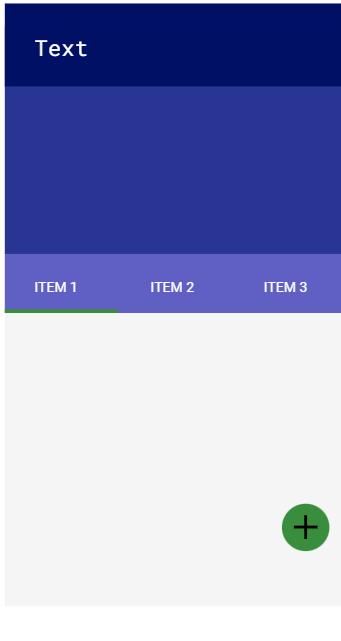
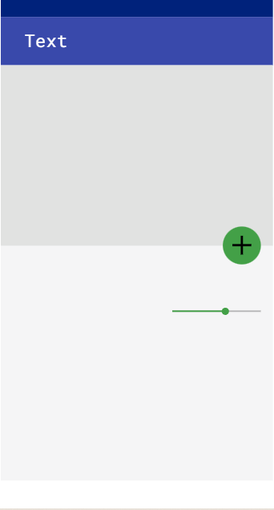
target audience and updated color scheme

diff --git a/lesson3/target-audience.html b/lesson3/target-audience.html
@@ -6,6 +6,9 @@
     <meta name="viewport" content="width=device-width, initial-scale=1.0">
     <link rel="stylesheet" href="css/main.css">
     <link href="css/normalize.css" rel="stylesheet" >
+    <link rel="preconnect" href="https://fonts.googleapis.com">
+    <link rel="preconnect" href="https://fonts.gstatic.com" crossorigin>
+    <link href="https://fonts.googleapis.com/css2?family=Poppins&family=Roboto+Condensed&display=swap" rel="stylesheet">
     <title>Chamber of Commerce Planning Document- Target Audience</title>
 </head>
 <body>
@@ -23,9 +26,14 @@
         <main>
             <h1>Target Audience</h1>
             <h2>Personas</h2>
-            <p>busniess owners and city planners (update infrastructure)</p>
+            <p>Local Business Owners: Man named Bob who has a cake busniess in the area called "Fat Cakes." He is in his mid thirties running his dream business. He is married with one kid. He has a degree in business and loves baking on the side. Bob is fimilar with technology and can nagivate the web quite well.</p>
+            <p>City Planners: Woman named Jen who works for the city. She is in her mid forties making the main income for her faamily. She is also married with three kids. She has an undergrad in urban planning and a Master's of City Planning. Jen works with technology often and can navigate the web quite well.</p>
             <h2>Scenarios</h2>
-            <p>content</p>
+            <p>Scenario 1: How can I join the Chamber? The site will contain a join tab where the viewer can eaily find the steps and process to join. </p>
+            <p>Scenario 2: What are the local busniess in this area? The site will have a directory page where anyone can find a list of the local businesses in the area.</p>
+            <p>Scenario 3: What type of infrastructure should I be building in this area? The site will have a directory where you can see the businesses in the area and what they do. From here you can see if they are resturants, stores, or any other type of business that requires a type of building.</p>
+            <p>Scenario 4: What events are going on in my town? The site will have a discover page where people can see all of the upcoming events in the town.</p>
+            <p>Scenario 5: How can I contact someone to complain about a local buiness? </p>
         </main>
         <footer>
             <div>&copy;<span></span>| Caroline Comin | Rexburg, ID, USA</div>

diff --git a/lesson3/css/main.css b/lesson3/css/main.css
@@ -1,13 +1,15 @@
 header {
-    background-color:#283593;
+    background-color:#3949ab;
     color: white;
     text-align: center;
     display: flex;
     justify-content: space-around; 
+    font-family: 'Roboto Condensed', sans-serif;
 }
 
 header h1{
     padding-left: 2%;
+    padding: 10%;
 }
 
 header img {
@@ -16,38 +18,105 @@ header img {
 }
 
 footer{
-    background-color: #283593;
+    background-color: #3949ab;
     color: white;
     text-align: center;
+    font-family: 'Roboto Condensed', sans-serif;
+    font-size: 16pt;
 }
 
 nav {
-    background-color:#5f5fc4; 
+    background-color: #388e3c;
+    border-top: 2px white solid;
+    color: white;
 }
 
 nav a {
     display: block;
     text-align: center;
     text-decoration: none;
-    color: white;
     font-size: 18pt;
     padding: 2%;
+    color: black;
+    font-family: 'Poppins', sans-serif;
 }
 
 nav a:hover {
-    background-color: #001064;
+    background-color: #00701a;
     color: white;
 }
 
 .highlight {
-    background-color: #001064;
+    background-color: #00701a;
     color: white;
+}
+
+h1 {
+    font-size: 25pt;
+}
+
+h2 {
+    font-size: 18pt;
+}
+
+main{
+    padding: 1rem;
+}
+
+main table{
+    width: 100%;
+    border: 2px ;
+}
+
+main table th{
+    border: 2px #00600f solid;
+    margin: 0px;
+    padding: 0px;    
+    background-color: #388e3c;
+}
+
+main table td{
+    border: 2px black solid;
+}
+
+#site-header-sample{
+    background-color: #3949ab;
+    font-family: 'Roboto Condensed', sans-serif;
+    font-size: 25pt;
+    color: white;
+}        
+
+#h1-sample{
+    font-family: 'Roboto Condensed', sans-serif;
+    font-size: 25pt;
+    color: #3949ab;
+}
+
+#primary-nav-sample {
+    background-color: #388e3c;
+    font-family: 'Poppins', sans-serif;
+}
+
+#footer-sample {
+    background-color: #3949ab;
+    color: white;
+    font-family: 'Roboto Condensed', sans-serif;
+}
+
+#h2-sample {
+    font-family: 'Poppins', sans-serif;
 }
 
 @media screen  and (min-width: 600px) {
     header {
         font-size: 25pt;
     }
+
+    header h1{
+        padding-left: 2%;
+        padding: 0%;
+    }
+
     nav {
         display: grid;
         grid-template-columns: 1fr 1fr 1fr 1fr;

diff --git a/lesson3/typography.html b/lesson3/typography.html
@@ -6,6 +6,9 @@
     <meta name="viewport" content="width=device-width, initial-scale=1.0">
     <link rel="stylesheet" href="css/main.css">
     <link href="css/normalize.css" rel="stylesheet" >
+    <link rel="preconnect" href="https://fonts.googleapis.com">
+    <link rel="preconnect" href="https://fonts.gstatic.com" crossorigin>
+    <link href="https://fonts.googleapis.com/css2?family=Poppins&family=Roboto+Condensed&display=swap" rel="stylesheet">
     <title>Chamber of Commerce Planning Document- Typography</title>
 </head>
 <body>
@@ -22,7 +25,14 @@
         </nav>
         <main>
             <h1>Fonts</h1>
-            <p>table</p>
+            <table>
+                <tr><th>Object</th><th>Font Definition</th><th>Size</th><th>Font Color</th><th>Sample</th></tr>
+                <tr><td>Site Header</td><td>Roboto Condensed</td><td>25pt</td><td>White</td><td id="site-header-sample">Sample</td></tr>
+                <tr><td>Primary Navigation</td><td>Poppins</td><td>18pt</td><td>Black</td><td id="primary-nav-sample">Sample</td></tr>
+                <tr><td>Footer Content</td><td>Roboto Condensed</td><td>16pt</td><td>White</td><td id="footer-sample">Sample</td></tr>
+                <tr><td>Heading 1 (h1)</td><td>Roboto Condensed</td><td>25pt</td><td>Black</td><td id="h1-sample">Sample</td></tr>
+                <tr><td>Heading 2 (h1)</td><td>Poppins</td><td>18pt</td><td>Black</td><td id="h2-sample">Sample</td></tr>
+            </table>
         </main>
         <footer>
             <div>&copy;<span></span>| Caroline Comin | Rexburg, ID, USA</div>

diff --git a/lesson3/color-scheme.html b/lesson3/color-scheme.html
@@ -6,6 +6,9 @@
     <meta name="viewport" content="width=device-width, initial-scale=1.0">
     <link rel="stylesheet" href="css/main.css">
     <link href="css/normalize.css" rel="stylesheet" >
+    <link rel="preconnect" href="https://fonts.googleapis.com">
+    <link rel="preconnect" href="https://fonts.gstatic.com" crossorigin>
+    <link href="https://fonts.googleapis.com/css2?family=Poppins&family=Roboto+Condensed&display=swap" rel="stylesheet">
     <title>Chamber of Commerce Planning Document- Color Scheme</title>
 </head>
 <body>
@@ -23,9 +26,9 @@
         <main>
             <h1>Color Scheme</h1>
             <h2>Primary and Secondary</h2>
-            <img src="images/chambercolors_686x366.png" alt="">
+            <img src="images/colorscheme.png" alt="">
             <h2>Color Scheme Usage Example</h2>
-            <img src="images/colorexample_273x513.png" alt="">
+            <img src="images/colorexample.png" alt="">
         </main>
         <footer>
             <div>&copy;<span></span>| Caroline Comin | Rexburg, ID, USA</div>

diff --git a/lesson3/index.html b/lesson3/index.html
@@ -6,6 +6,9 @@
     <meta name="viewport" content="width=device-width, initial-scale=1.0">
     <link rel="stylesheet" href="css/main.css">
     <link href="css/normalize.css" rel="stylesheet" >
+    <link rel="preconnect" href="https://fonts.googleapis.com">
+    <link rel="preconnect" href="https://fonts.gstatic.com" crossorigin>
+    <link href="https://fonts.googleapis.com/css2?family=Poppins&family=Roboto+Condensed&display=swap" rel="stylesheet">
     <title>Chamber of Commerce Planning Document-Home Page</title>
 </head>
 <body>
